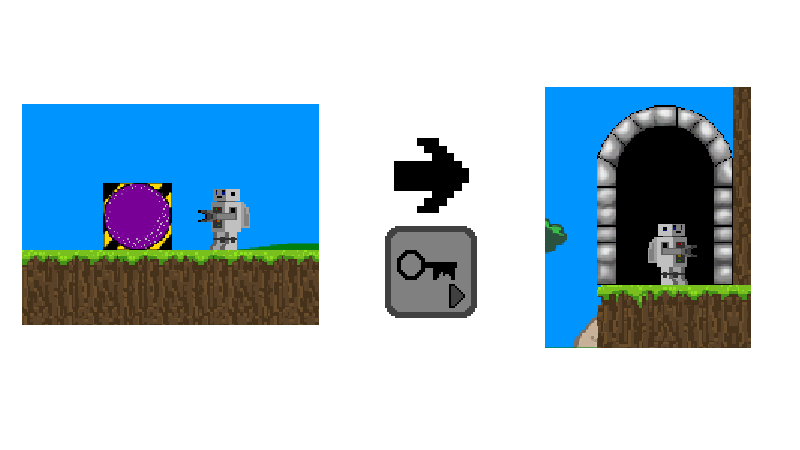
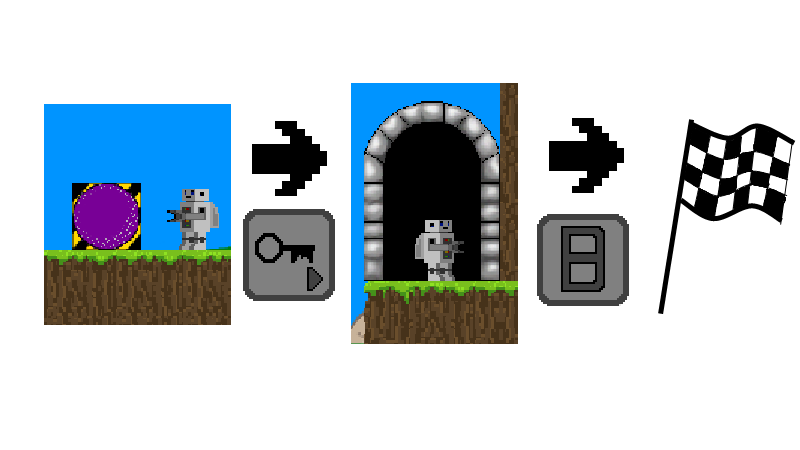
Build tutorial imageList

diff --git a/core/src/com/retroMachines/util/lambda/LambdaUtil.java b/core/src/com/retroMachines/util/lambda/LambdaUtil.java
@@ -8,6 +8,7 @@ import java.util.List;
 
 import com.badlogic.gdx.Gdx;
 import com.badlogic.gdx.files.FileHandle;
+import com.badlogic.gdx.graphics.Texture;
 import com.badlogic.gdx.math.Vector2;
 import com.badlogic.gdx.utils.GdxRuntimeException;
 import com.google.gson.Gson;
@@ -32,6 +33,8 @@ public class LambdaUtil {
 	private final static String HINT = "hint";
 	private final static String LEVEL = "level";
 	private final static String TARGET = "target";
+	private final static String TUTORIALS = "tutorialScreens";
+	private final static String IMAGE = "img";
 	private final static String GAMEELEMENTS = "gameelements";
 	
 
@@ -40,6 +43,7 @@ public class LambdaUtil {
 	private LevelTree targetTree;
 	private LevelTree hintTree;
 	private LinkedList<Vertex> vertexList;
+	private LinkedList<Texture> tutorialImgs;
 	private LinkedList<GameElement> gameElementList;
 	
 
@@ -68,6 +72,7 @@ public class LambdaUtil {
 		// get json elements(description, id...)
 		//
 		JsonObject level = root.getAsJsonObject(LEVEL);
+		JsonArray tutorials = level.getAsJsonArray(TUTORIALS);
 		JsonObject data = level.getAsJsonObject(DATA);
 		JsonArray elements = data.getAsJsonArray(GAMEELEMENTS);
 		JsonArray hint = data.getAsJsonArray(HINT);
@@ -79,6 +84,7 @@ public class LambdaUtil {
 		} catch (IOException e) {
 			Gdx.app.log(Constants.LOG_TAG, "Could not close BufferedReader!", e);
 		}
+		tutorialImgs = makeTutorialImgList(tutorials);
 		vertexList = makeVertexList(elements);
 		gameElementList = makeGameElementList();
 		numOfDepots = 0;
@@ -225,6 +231,22 @@ public class LambdaUtil {
 		return start;
 	}
 	
+	/**
+	 * Adds Alle TutorialImages of Level
+	 * @param tutList
+	 * @return
+	 */
+	private LinkedList<Texture> makeTutorialImgList(JsonArray tutList) {
+		LinkedList<Texture> resultList = new LinkedList<Texture>();
+		for(JsonElement j : tutList) {
+			Texture img = new Texture(Gdx.files.internal(
+					"maps/Tutorials" + j.getAsJsonObject().get(IMAGE) + ".png")
+					);
+			resultList.addLast(img);
+		}
+		return resultList;
+	}
+	
 
 	/**
 	 * returns new instance of vertex of type {Var,Abs,App}. If parameter does
@@ -304,6 +326,10 @@ public class LambdaUtil {
 	 */
 	public LevelTree getTargetTree() {
 		return targetTree;
+	}
+	
+	public LinkedList<Texture> getTutorials() {
+		return tutorialImgs;
 	}
 	
 	/**
